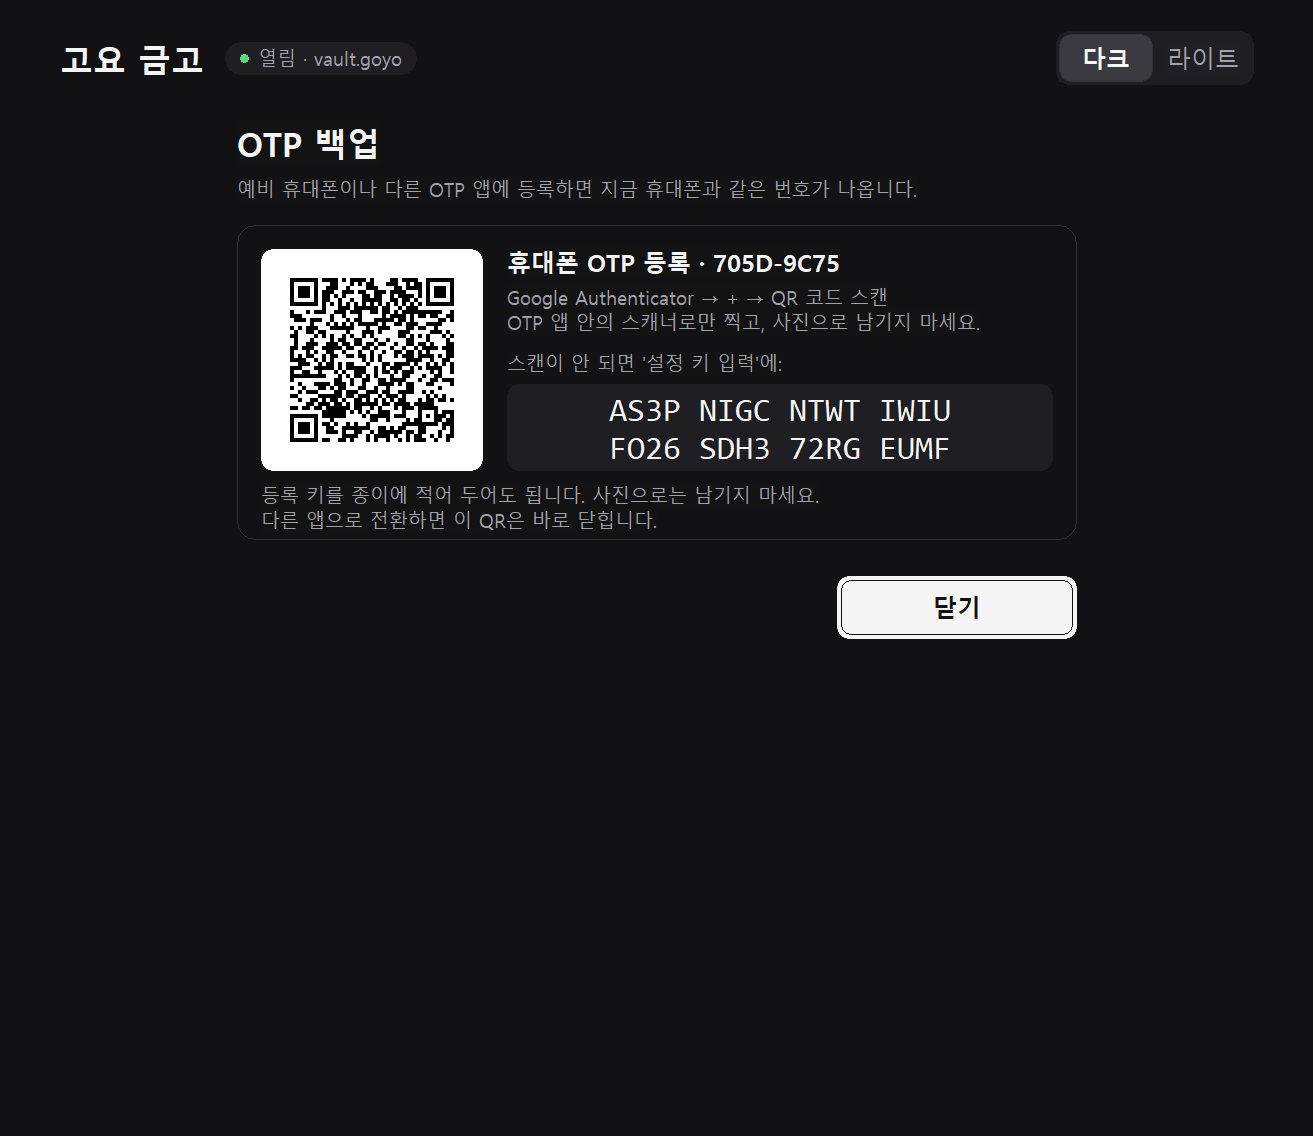
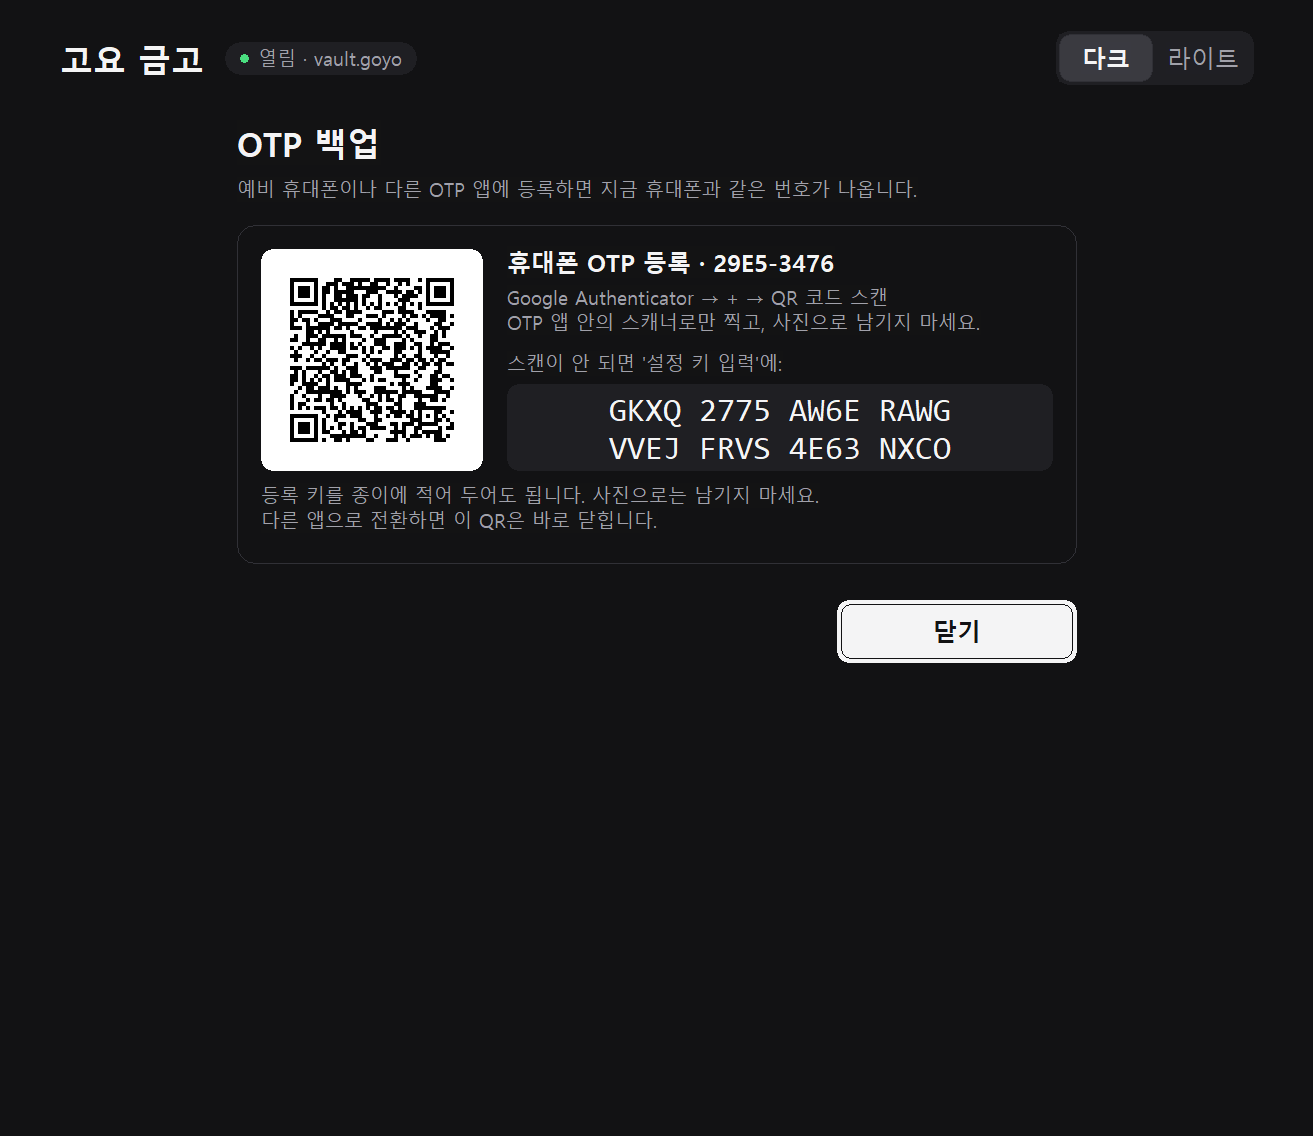
Give the OTP card's bottom note room above the border (0.5.2)
The two-line note at the bottom of the OTP card (new vault with OTP,
OTP backup) ended 4 px above the card border, so its second line ran
into the border and could be cut off. The card is 16 px taller, the
note box 6 px taller, and the controls below move down.

New test labels_fit_their_boxes builds every screen and checks that
each label's text fits its box at this DPI, that labels on the OTP card
end clear of its border, and that every long message fits the status
line. It fails on the old layout.

diff --git a/src/main.rs b/src/main.rs
@@ -681,7 +681,7 @@ impl App {
         } else {
             374
         };
-        (AX, y, AW, 210)
+        (AX, y, AW, 226)
     }
     /// Labels of the OTP card; the frame, QR and key are painted.
     fn enrollment_labels(&mut self, tag: &str, footer: &str) {
@@ -710,7 +710,7 @@ impl App {
             40,
         );
         self.note("스캔이 안 되면 '설정 키 입력'에:", rx, cy + 84, rw, 18);
-        self.note(footer, cx + 16, cy + 172, cw - 32, 34);
+        self.note(footer, cx + 16, cy + 172, cw - 32, 40);
     }
     /// Suggests file names that do not exist yet for Create and Restore.
     fn default_paths(&mut self) {
@@ -910,12 +910,12 @@ impl App {
                     30,
                     theme::GHOST,
                 );
-                self.field(OTP, "앱에 표시된 6자리", "", AX, 600, 180, true);
+                self.field(OTP, "앱에 표시된 6자리", "", AX, 616, 180, true);
                 self.button(
                     SUBMIT,
                     "등록 확인 · 금고 만들기",
                     AX + 196,
-                    622,
+                    638,
                     AW - 196,
                     40,
                     theme::PRIMARY,
@@ -1248,7 +1248,7 @@ impl App {
                 &tag,
                 "등록 키를 종이에 적어 두어도 됩니다. 사진으로는 남기지 마세요.\r\n다른 앱으로 전환하면 이 QR은 바로 닫힙니다.",
             );
-            self.button(CANCEL, "닫기", AX + AW - 160, 384, 160, 42, theme::PRIMARY);
+            self.button(CANCEL, "닫기", AX + AW - 160, 400, 160, 42, theme::PRIMARY);
             unsafe {
                 SetFocus(self.handle(CANCEL));
             }
@@ -3411,6 +3411,153 @@ mod tests {
         assert_eq!(app.dest_path, dir.join("restored.goyo"));
         std::fs::remove_file(dir.join("vault.goyo")).unwrap();
         std::fs::remove_dir(&dir).unwrap();
+    }
+    /// Every label's text fits its box at this machine's DPI: a STATIC clips
+    /// whatever does not fit, so a cut-off line would go unnoticed. Labels on
+    /// the OTP card end clear of its painted border. The status line is also
+    /// checked against every long message in the source.
+    #[test]
+    fn labels_fit_their_boxes() {
+        #[link(name = "user32")]
+        unsafe extern "system" {
+            fn GetClassNameW(h: Hwnd, name: *mut u16, n: i32) -> i32;
+        }
+        unsafe fn needed(h: Hwnd, text: &str) -> (i32, i32) {
+            unsafe {
+                let mut r = Rect::default();
+                GetClientRect(h, &mut r);
+                let dc = GetDC(h);
+                let old = SelectObject(dc, SendMessageW(h, 0x31, 0, 0)); // WM_GETFONT
+                let mut calc = Rect {
+                    left: 0,
+                    top: 0,
+                    right: r.right,
+                    bottom: 0,
+                };
+                let s = wide(text);
+                // DT_CALCRECT | DT_WORDBREAK | DT_EXPANDTABS | DT_NOPREFIX
+                DrawTextW(dc, s.as_ptr(), -1, &mut calc, 0x400 | 0x10 | 0x40 | 0x800);
+                SelectObject(dc, old);
+                ReleaseDC(h, dc);
+                (calc.bottom, r.bottom)
+            }
+        }
+        let dir = std::env::temp_dir().join(format!(
+            "goyo-fit-{:x}",
+            u64::from_le_bytes(*crypto::random::<8>().unwrap())
+        ));
+        std::fs::create_dir(&dir).unwrap();
+        let session = synthetic_session(&dir, "synthetic layout password");
+        let mut failures = vec![];
+        unsafe {
+            SetProcessDPIAware();
+            let h = create_window(GetModuleHandleW(null()), &wide("STATIC"));
+            assert_ne!(h, 0);
+            let mut app = App::new(h);
+            app.home_dir = dir.clone();
+            app.vault_path = session.path.clone();
+            app.key_path = session.key_path.clone();
+            let mut check = |app: &App, name: &str| {
+                for &child in &app.children {
+                    let mut class = [0u16; 16];
+                    let n = GetClassNameW(child, class.as_mut_ptr(), 16).max(0) as usize;
+                    if String::from_utf16_lossy(&class[..n]) != "Static" {
+                        continue;
+                    }
+                    let mut buf = vec![0u16; 2048];
+                    let n = GetWindowTextW(child, buf.as_mut_ptr(), 2048).max(0) as usize;
+                    let text = String::from_utf16_lossy(&buf[..n]);
+                    let (need, have) = needed(child, &text);
+                    if need > have {
+                        failures.push(format!("{name}: needs {need}px, has {have}px: {text:?}"));
+                    }
+                    let card =
+                        (app.provision.is_some() && app.create_otp) || app.otp_setup.is_some();
+                    if card {
+                        let (x, y, w, h) = app.enroll();
+                        let frame = app.r(x, y, w, h);
+                        let mut r = Rect::default();
+                        GetWindowRect(child, &mut r);
+                        let mut pts = [
+                            Point {
+                                x: r.left,
+                                y: r.top,
+                            },
+                            Point {
+                                x: r.right,
+                                y: r.bottom,
+                            },
+                        ];
+                        MapWindowPoints(0, app.hwnd, pts.as_mut_ptr(), 2);
+                        let inside = pts[0].y >= frame.top && pts[0].y < frame.bottom;
+                        if inside && pts[1].y > frame.bottom - app.px(8) {
+                            failures.push(format!("{name}: touches the card border: {text:?}"));
+                        }
+                    }
+                }
+            };
+            for screen in [Screen::Welcome, Screen::Login, Screen::Restore] {
+                app.screen = screen;
+                app.build();
+                check(&app, "pre-unlock");
+            }
+            app.provision = Some(Provision::new().unwrap());
+            for otp in [false, true] {
+                app.screen = Screen::Create;
+                app.create_otp = otp;
+                app.build();
+                check(&app, if otp { "create-otp" } else { "create" });
+            }
+            app.provision = None;
+            app.session = Some(session);
+            for screen in [
+                Screen::Vault,
+                Screen::Edit,
+                Screen::Password,
+                Screen::OtpBackup,
+            ] {
+                app.screen = screen;
+                app.build();
+                check(&app, "unlocked");
+            }
+            app.otp_setup = Some(
+                app.session
+                    .as_ref()
+                    .unwrap()
+                    .otp_setup("synthetic layout password")
+                    .unwrap(),
+            );
+            app.build();
+            check(&app, "otp-backup-qr");
+            // Every long Korean message in the source, in the status line.
+            app.otp_setup = None;
+            app.screen = Screen::Vault;
+            app.build();
+            let status = app.handle(STATUS);
+            for source in [
+                include_str!("main.rs"),
+                include_str!("vault.rs"),
+                include_str!("crypto.rs"),
+            ] {
+                for literal in source.split('"').skip(1).step_by(2) {
+                    let korean = literal
+                        .chars()
+                        .filter(|c| ('\u{ac00}'..='\u{d7a3}').contains(c))
+                        .count();
+                    if korean < 25 || literal.contains("\\r\\n") || literal.contains("\\n") {
+                        continue;
+                    }
+                    let (need, have) = needed(status, literal);
+                    if need > have {
+                        failures.push(format!("status: needs {need}px, has {have}px: {literal:?}"));
+                    }
+                }
+            }
+            drop(app);
+            DestroyWindow(h);
+        }
+        let _ = std::fs::remove_dir_all(&dir);
+        assert!(failures.is_empty(), "\n{}", failures.join("\n"));
     }
     /// Synthetic vault on disk with a fresh OTP code that opens it.
     fn synthetic_session(dir: &std::path::Path, password: &str) -> Session {
